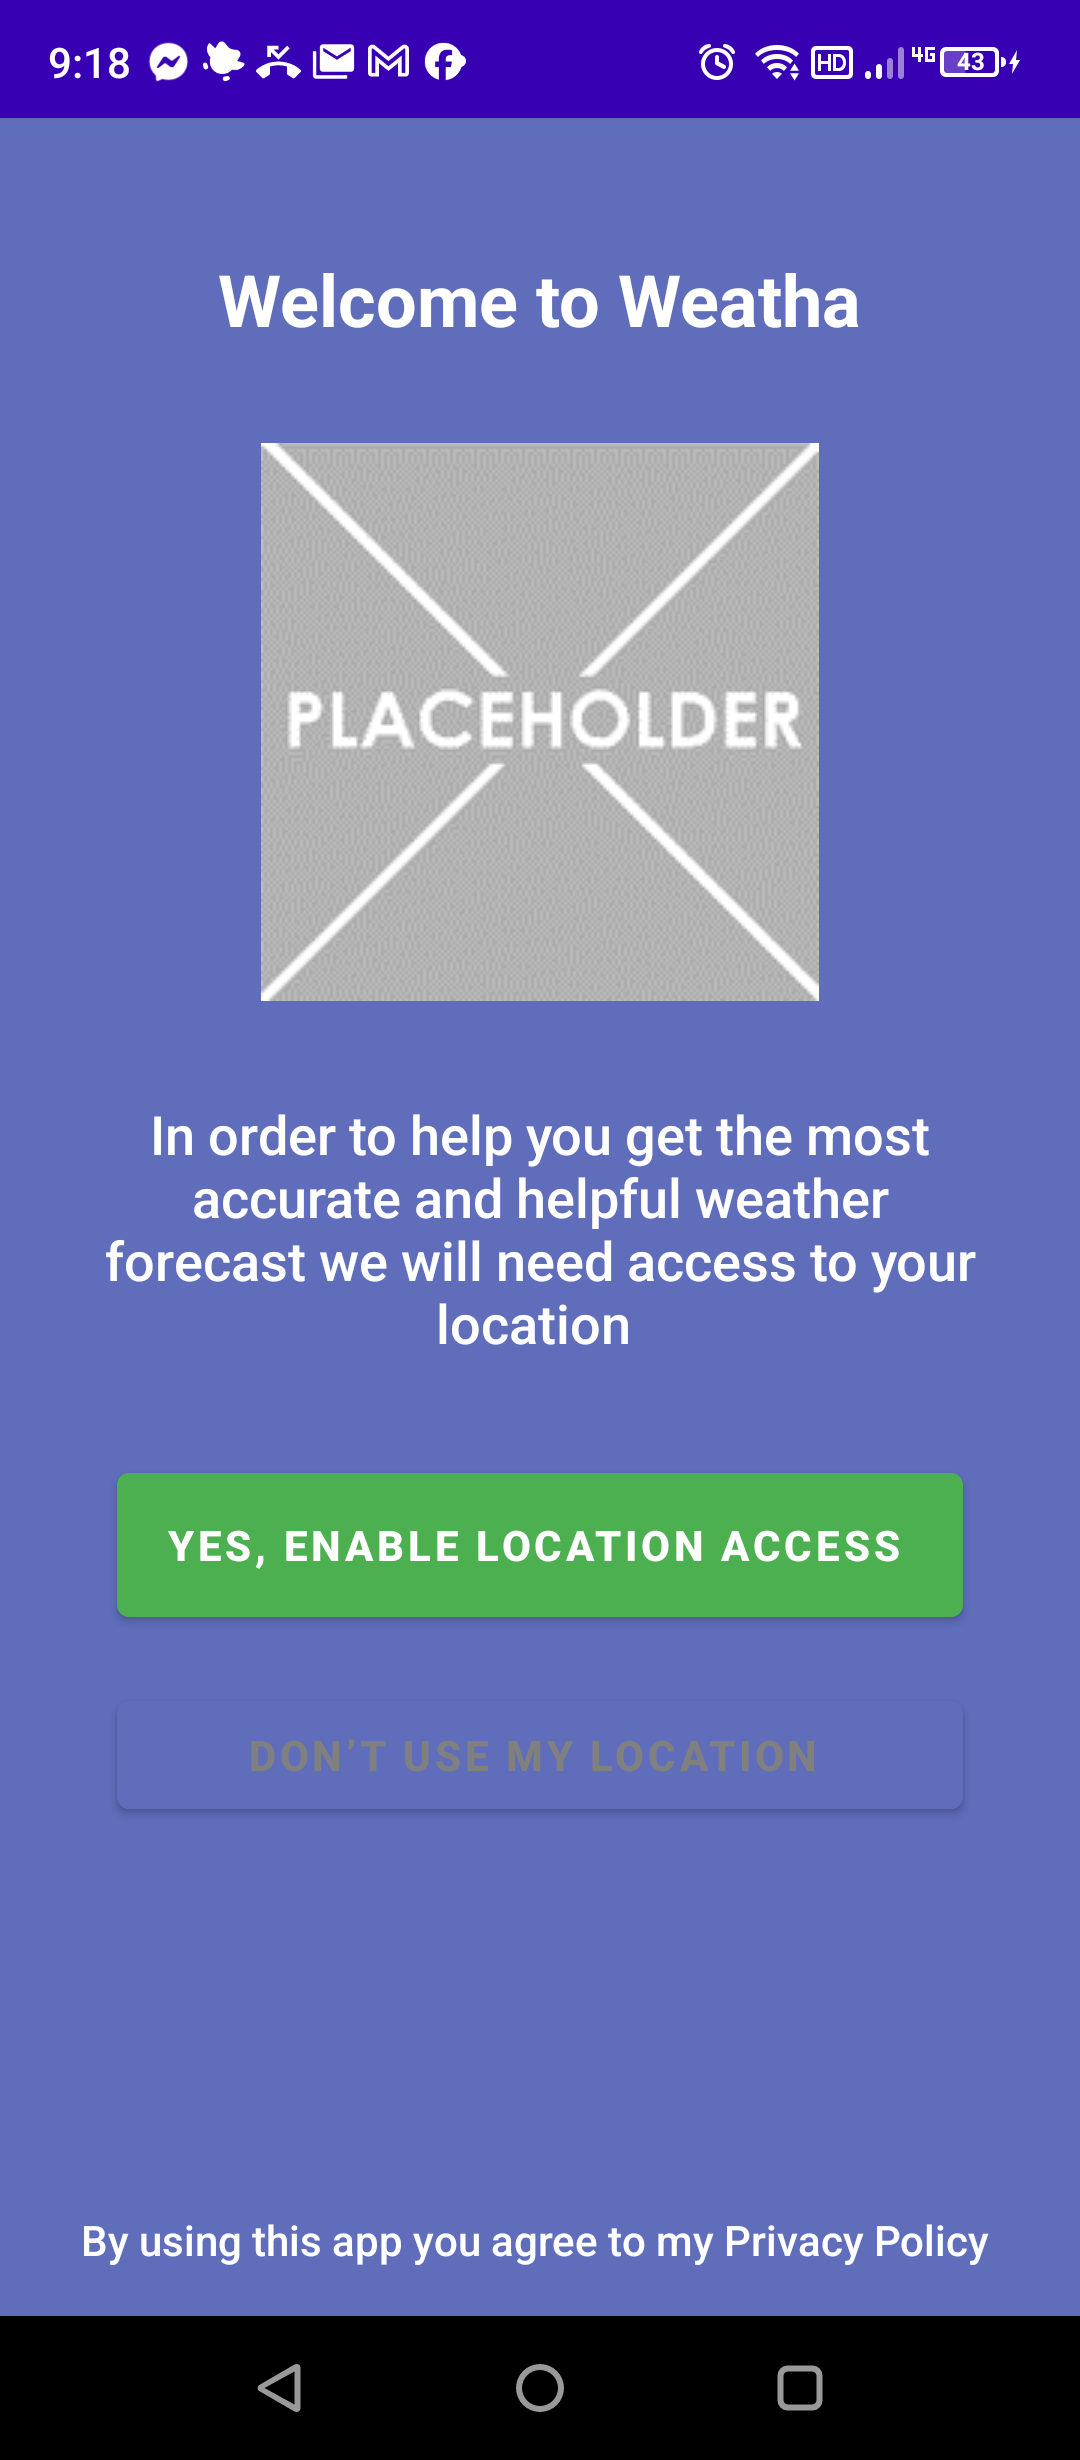
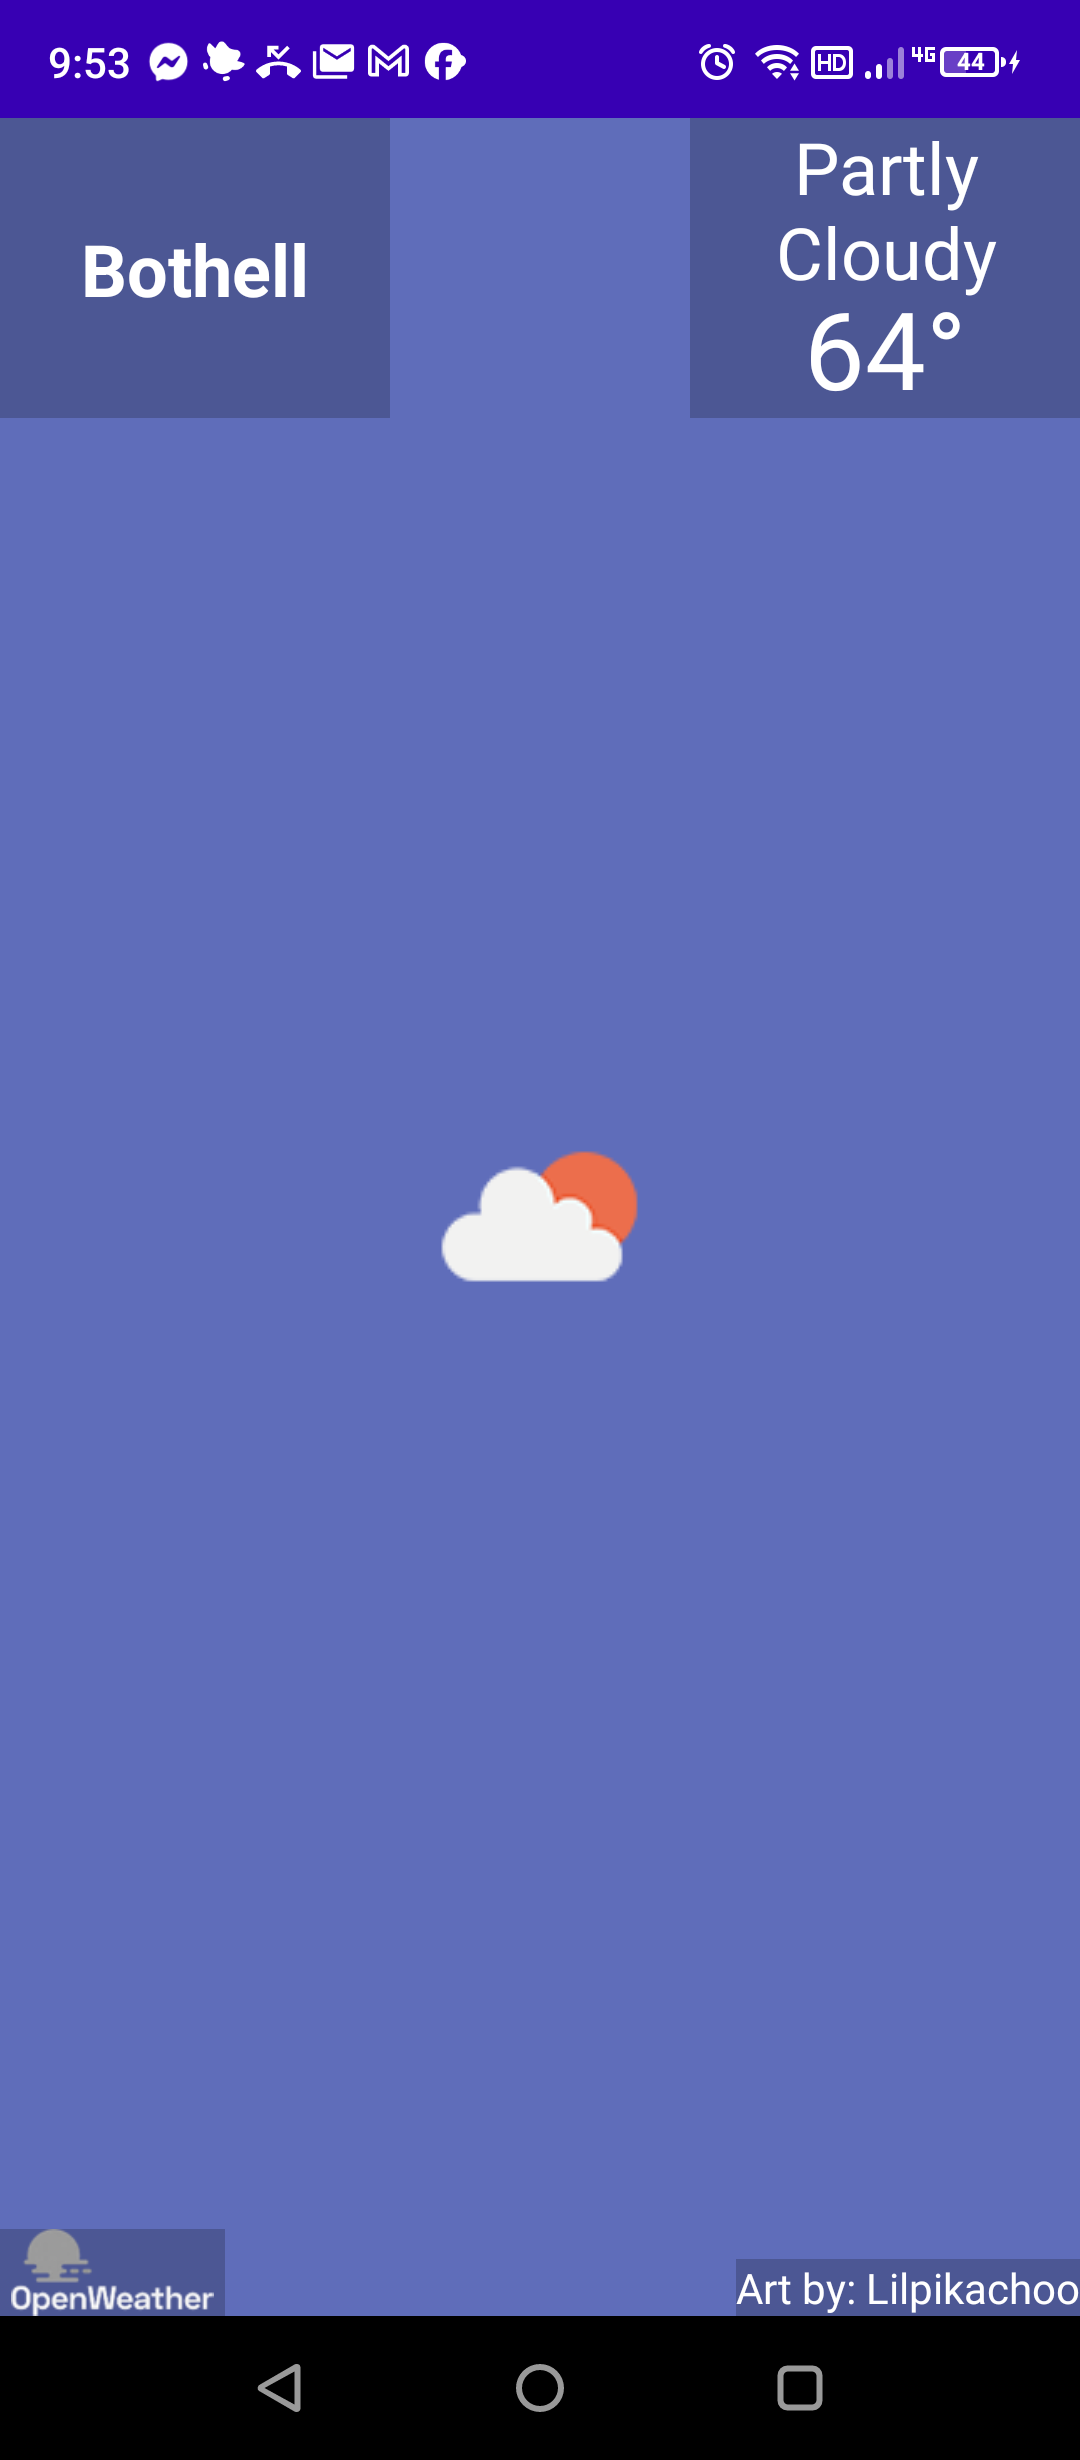
fix: fetch weather from keyless Open-Meteo so the app actually works
The app called OpenWeatherMap's One Call 2.5 endpoint (shut down) with a
placeholder API key, so the weather page never loaded. Migrate the data
source to Open-Meteo (free, no key):

- Point the forecast URL at api.open-meteo.com with current/hourly/daily
  params and unixtime timestamps.
- Rewrite the current/hourly/daily parsers for Open-Meteo's schema.
- Map WMO weather codes to the existing OWM-style icon strings (so the
  bundled weather icons keep working) plus readable condition text.

Now resolves the device location and shows live conditions with no key.

diff --git a/app/src/main/java/com/timapps/weatha/MainActivity.java b/app/src/main/java/com/timapps/weatha/MainActivity.java
@@ -74,14 +74,16 @@ public class MainActivity extends AppCompatActivity {
     HourlyTempRecycleAdapter HourlyTempRecycleAdapter;
     RecyclerView RecycleListView;
     private final int REQUEST_CODE_LOCATION_PERMISSION = 44;
-    String apiKey = "Api Key goes Here";
-    
+    // Weather data now comes from Open-Meteo (https://open-meteo.com) — free and keyless.
+    // (OpenWeatherMap's One Call 2.5 endpoint this app used was shut down.)
 
-    String forecastURL = "https://api.openweathermap.org/data/2.5/onecall?" +
-            "lat=" + latitude + "&" +
-            "lon=" + longitude + "&" +
-            "appid=" + apiKey + "&" +
-            "units=" + units;
+    String forecastURL = "https://api.open-meteo.com/v1/forecast?" +
+            "latitude=" + latitude + "&" +
+            "longitude=" + longitude + "&" +
+            "current=temperature_2m,relative_humidity_2m,apparent_temperature,weather_code&" +
+            "hourly=temperature_2m,relative_humidity_2m,apparent_temperature,weather_code&" +
+            "daily=weather_code,temperature_2m_max,temperature_2m_min&" +
+            "temperature_unit=fahrenheit&timezone=auto&timeformat=unixtime&forecast_days=7";
 
     /**************************************
      * Main initialized Method.  *
@@ -153,11 +155,14 @@ public class MainActivity extends AppCompatActivity {
             } else {
                 units = "imperial";
             }
-            forecastURL = "https://api.openweathermap.org/data/2.5/onecall?" +
-                    "lat=" + latitude + "&" +
-                    "lon=" + longitude + "&" +
-                    "appid=" + apiKey + "&" +
-                    "units=" + units;
+            String tempUnit = isMetric ? "celsius" : "fahrenheit";
+            forecastURL = "https://api.open-meteo.com/v1/forecast?" +
+                    "latitude=" + latitude + "&" +
+                    "longitude=" + longitude + "&" +
+                    "current=temperature_2m,relative_humidity_2m,apparent_temperature,weather_code&" +
+                    "hourly=temperature_2m,relative_humidity_2m,apparent_temperature,weather_code&" +
+                    "daily=weather_code,temperature_2m_max,temperature_2m_min&" +
+                    "temperature_unit=" + tempUnit + "&timezone=auto&timeformat=unixtime&forecast_days=7";
 
             OkHttpClient client = new OkHttpClient();
 
@@ -382,38 +387,29 @@ public class MainActivity extends AppCompatActivity {
 
         JSONObject forecast = new JSONObject(jSonData);
         String timezone = forecast.getString("timezone");
-        JSONArray jWeatherArray = forecast.getJSONArray("hourly");
+        JSONObject hourly = forecast.getJSONObject("hourly");
+        JSONArray times = hourly.getJSONArray("time");
+        JSONArray temps = hourly.getJSONArray("temperature_2m");
+        JSONArray feels = hourly.optJSONArray("apparent_temperature");
+        JSONArray hums = hourly.optJSONArray("relative_humidity_2m");
+        JSONArray codes = hourly.getJSONArray("weather_code");
         ArrayList<CurrentWeather> hourlyWeatherList = new ArrayList<>();
 
-        if (jWeatherArray.length() != 0) { //this represents the number of rows in the database
-
-
-            ArrayList<JSONObject> listdata = new ArrayList<>();
-
-            if (jWeatherArray != null) {
-                for (int i = 0; i < jWeatherArray.length(); i++) {
-                    listdata.add(jWeatherArray.getJSONObject(i));
-                }
-            }
-
-            for (JSONObject jHourlyweather : listdata
-            ) {
-                JSONArray jjWeatherArray = jHourlyweather.getJSONArray("weather");
-                JSONObject JJweather = (JSONObject) jjWeatherArray.get(0);
-                CurrentWeather jWeather = new CurrentWeather(city,
-                        JJweather.getString("icon"),
-                        jHourlyweather.getDouble("temp"),
-                        jHourlyweather.getDouble("feels_like"),
-                        jHourlyweather.getDouble("humidity"),
-                        0.0,
-                        JJweather.getString("main"),
-                        JJweather.getString("description"),
-                        jHourlyweather.getLong("dt"),
-                        timezone
-                );
-                hourlyWeatherList.add(jWeather);
-
-            }
+        int count = Math.min(times.length(), 24); // next 24 hours is plenty for the strip
+        for (int i = 0; i < count; i++) {
+            int code = codes.getInt(i);
+            CurrentWeather jWeather = new CurrentWeather(city,
+                    wmoIcon(code),
+                    temps.getDouble(i),
+                    feels != null ? feels.getDouble(i) : temps.getDouble(i),
+                    hums != null ? hums.getDouble(i) : 0.0,
+                    0.0,
+                    wmoMain(code),
+                    wmoDesc(code),
+                    times.getLong(i),
+                    timezone
+            );
+            hourlyWeatherList.add(jWeather);
         }
 
         return hourlyWeatherList;
@@ -426,18 +422,17 @@ public class MainActivity extends AppCompatActivity {
         String timezone = forecast.getString("timezone");
         Log.i(TAG, "From JSON: " + timezone);
         JSONObject current = forecast.getJSONObject("current");
-        JSONArray jWeatherArray = current.getJSONArray("weather");
-        JSONObject weather = (JSONObject) jWeatherArray.get(0);
+        int code = current.optInt("weather_code", 0);
 
         CurrentWeather currentWeather = new CurrentWeather(city,
-                weather.getString("icon"),
-                current.getDouble("temp"),
-                current.getDouble("feels_like"),
-                current.getDouble("humidity"),
+                wmoIcon(code),
+                current.getDouble("temperature_2m"),
+                current.optDouble("apparent_temperature", current.getDouble("temperature_2m")),
+                current.optDouble("relative_humidity_2m", 0.0),
                 0.0,
-                weather.getString("main"),
-                weather.getString("description"),
-                current.getLong("dt"),
+                wmoMain(code),
+                wmoDesc(code),
+                current.getLong("time"),
                 timezone
         );
 
@@ -449,45 +444,97 @@ public class MainActivity extends AppCompatActivity {
         JSONObject forecast = new JSONObject(jSonData);
         String timezone = forecast.getString("timezone");
 
-        JSONArray jDailyWeatherArray = forecast.getJSONArray("daily");
-        ArrayList<JSONObject> listdata = new ArrayList<>();
+        JSONObject daily = forecast.getJSONObject("daily");
+        JSONArray times = daily.getJSONArray("time");
+        JSONArray codes = daily.getJSONArray("weather_code");
+        JSONArray maxT = daily.getJSONArray("temperature_2m_max");
+        JSONArray minT = daily.getJSONArray("temperature_2m_min");
 
-        if (jDailyWeatherArray != null) {
-            for (int i = 0; i < jDailyWeatherArray.length(); i++) {
-                listdata.add(jDailyWeatherArray.getJSONObject(i));
-            }
-        }
-
-
-        for (JSONObject jDailyweather : listdata
-        ) {
-            JSONObject tempJobj = jDailyweather.getJSONObject("temp");
-            JSONArray jjWeatherArray = jDailyweather.getJSONArray("weather");
-            JSONObject JJweather = (JSONObject) jjWeatherArray.get(0);
+        for (int i = 0; i < times.length(); i++) {
+            int code = codes.getInt(i);
             CurrentWeather jWeather = new CurrentWeather(city,
-                    JJweather.getString("icon"),
+                    wmoIcon(code),
                     0.0,
                     0.0,
-                    jDailyweather.getDouble("humidity"),
                     0.0,
-                    JJweather.getString("main"),
-                    JJweather.getString("description"),
-                    jDailyweather.getLong("dt"),
+                    0.0,
+                    wmoMain(code),
+                    wmoDesc(code),
+                    times.getLong(i),
                     timezone
             );
             Log.i(TAG, jWeather.ePochTimeConverter(
                     jWeather.getTime()).getInstance().
                     getDisplayName(Calendar.DAY_OF_WEEK, Calendar.LONG, Locale.getDefault()));
-            jWeather.setMinTemp(tempJobj.getDouble("min"));
-            jWeather.setMaxTemp(tempJobj.getDouble("max"));
-            /*Double rainNumber = jDailyweather.getDouble("rain");
-            if (rainNumber == null ) {
-                jWeather.setPrecipChance(rainNumber);
-            }*/
+            jWeather.setMinTemp(minT.getDouble(i));
+            jWeather.setMaxTemp(maxT.getDouble(i));
             dailyWeatherList.add(jWeather);
         }
 
         return dailyWeatherList;
+    }
+
+    // ── Open-Meteo uses WMO weather codes; map them to the OWM-style icon strings
+    //    the existing drawables/getIconId() understand, plus human-readable text. ──
+    private String wmoIcon(int code) {
+        if (code == 0 || code == 1) return "01d";
+        if (code == 2) return "02d";
+        if (code == 3) return "04d";
+        if (code == 45 || code == 48) return "50d";
+        if (code >= 51 && code <= 57) return "09d";
+        if (code >= 61 && code <= 67) return "10d";
+        if (code >= 71 && code <= 77) return "13d";
+        if (code >= 80 && code <= 82) return "09d";
+        if (code == 85 || code == 86) return "13d";
+        if (code >= 95) return "11d";
+        return "01d";
+    }
+
+    private String wmoMain(int code) {
+        if (code == 0) return "Clear";
+        if (code == 1) return "Mainly Clear";
+        if (code == 2) return "Partly Cloudy";
+        if (code == 3) return "Overcast";
+        if (code == 45 || code == 48) return "Fog";
+        if (code >= 51 && code <= 57) return "Drizzle";
+        if (code >= 61 && code <= 67) return "Rain";
+        if (code >= 71 && code <= 77) return "Snow";
+        if (code >= 80 && code <= 82) return "Rain Showers";
+        if (code == 85 || code == 86) return "Snow Showers";
+        if (code >= 95) return "Thunderstorm";
+        return "Clear";
+    }
+
+    private String wmoDesc(int code) {
+        switch (code) {
+            case 0: return "clear sky";
+            case 1: return "mainly clear";
+            case 2: return "partly cloudy";
+            case 3: return "overcast";
+            case 45: return "fog";
+            case 48: return "depositing rime fog";
+            case 51: return "light drizzle";
+            case 53: return "moderate drizzle";
+            case 55: return "dense drizzle";
+            case 56: case 57: return "freezing drizzle";
+            case 61: return "slight rain";
+            case 63: return "moderate rain";
+            case 65: return "heavy rain";
+            case 66: case 67: return "freezing rain";
+            case 71: return "slight snow";
+            case 73: return "moderate snow";
+            case 75: return "heavy snow";
+            case 77: return "snow grains";
+            case 80: return "slight rain showers";
+            case 81: return "moderate rain showers";
+            case 82: return "violent rain showers";
+            case 85: return "slight snow showers";
+            case 86: return "heavy snow showers";
+            case 95: return "thunderstorm";
+            case 96: return "thunderstorm with hail";
+            case 99: return "thunderstorm with heavy hail";
+            default: return "clear sky";
+        }
     }
 
     private boolean isNetworkAvailable() {

diff --git a/README.md b/README.md
@@ -1,9 +1,9 @@
 # Weatha
 
-An Android weather app built in Java that displays current weather conditions and forecasts using the OpenWeatherMap API.
+An Android weather app built in Java that displays current weather conditions and forecasts for your current location.
 
-![Weatha running on-device](docs/screenshot.png)
-*The welcome / location-permission screen on an Android device. Live forecasts require granting location access and an OpenWeatherMap API key.*
+![Weatha showing live weather on-device](docs/screenshot.png)
+*Live weather on an Android phone — the device's location (Bothell), current conditions ("Partly Cloudy 64°"), and a matching icon. Weather now comes from the free, keyless Open-Meteo API.*
 
 ## Features
 - Current temperature, humidity, and conditions
